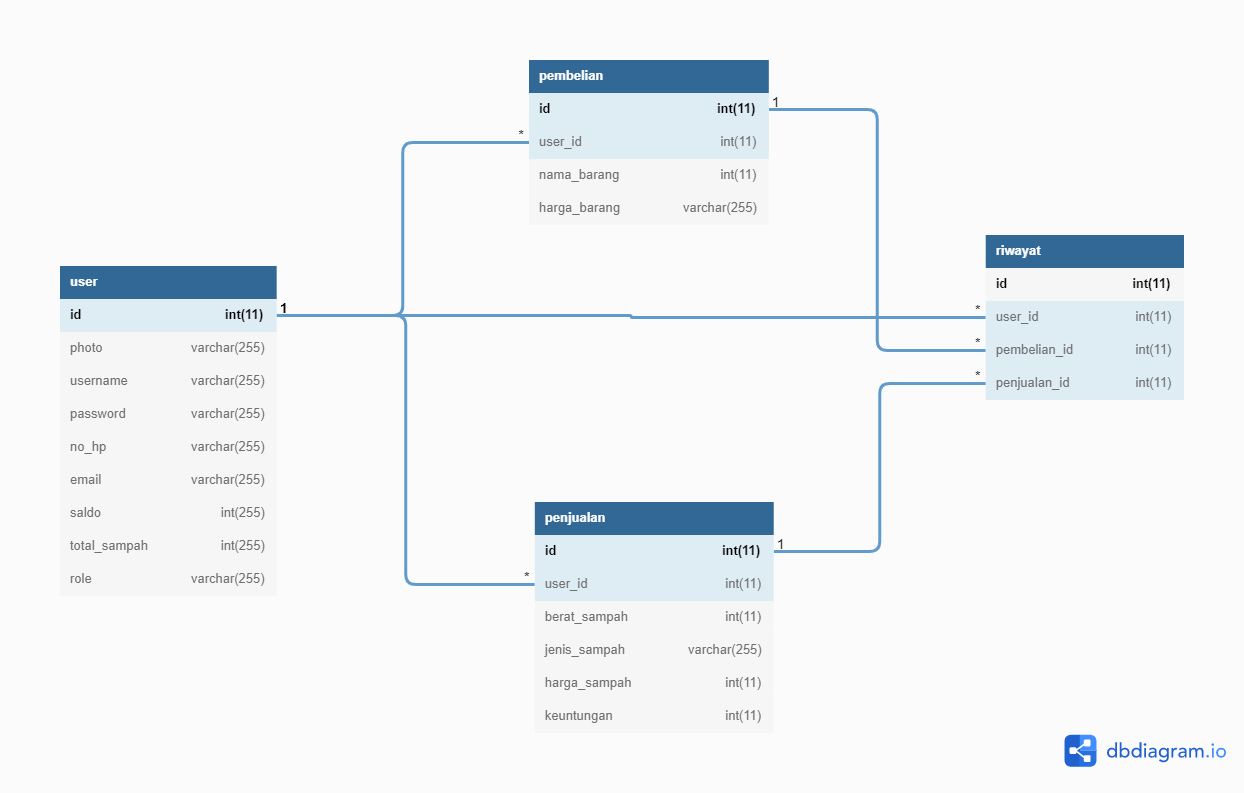
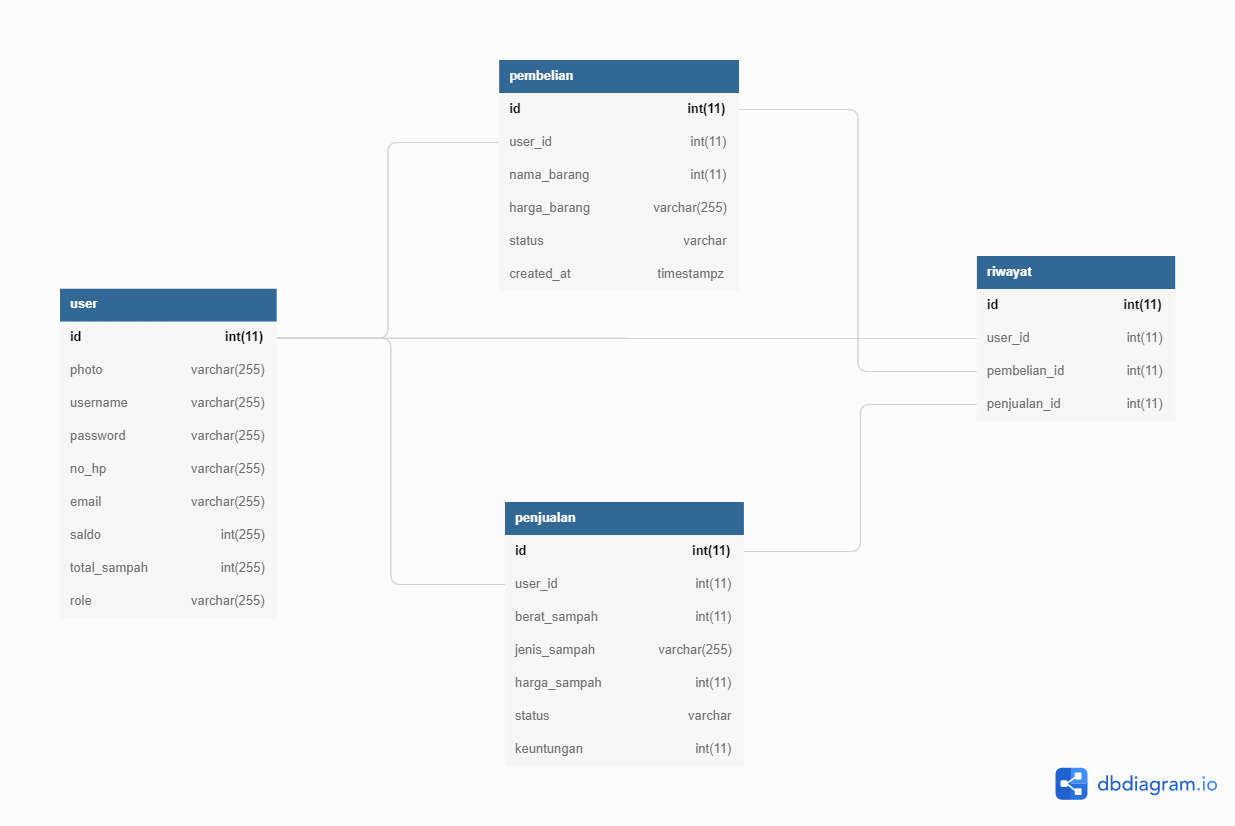
update db and add config DB

diff --git a/config/config.go b/config/config.go
@@ -1,0 +1,43 @@
+package config
+
+import (
+	"database/sql"
+	"fmt"
+	"os"
+
+	_ "github.com/go-sql-driver/mysql"
+)
+
+const (
+	localUsername string = "root"
+	localPassword string = ""
+	localDatabase string = "sevima"
+)
+
+var (
+	username string = os.Getenv("DB_USERNAME")
+	password string = os.Getenv("DB_PASSWORD")
+	database string = os.Getenv("DB_DATABASE")
+	host     string = os.Getenv("DB_HOST")
+	port     string = os.Getenv("DB_PORT")
+)
+
+var (
+	dsn string
+)
+
+// Connect TO DB
+func MySQL() (*sql.DB, error) {
+	if host == "" {
+		dsn = fmt.Sprintf("%v:%v@/%v?parseTime=true", localUsername, localPassword, localDatabase)
+	} else {
+		dsn = fmt.Sprintf("%v:%v@tcp(%v:%v)/%v?parseTime=true", username, password, host, port, database)
+	}
+	db, err := sql.Open("mysql", dsn)
+
+	if err != nil {
+		return nil, err
+	}
+
+	return db, nil
+}
